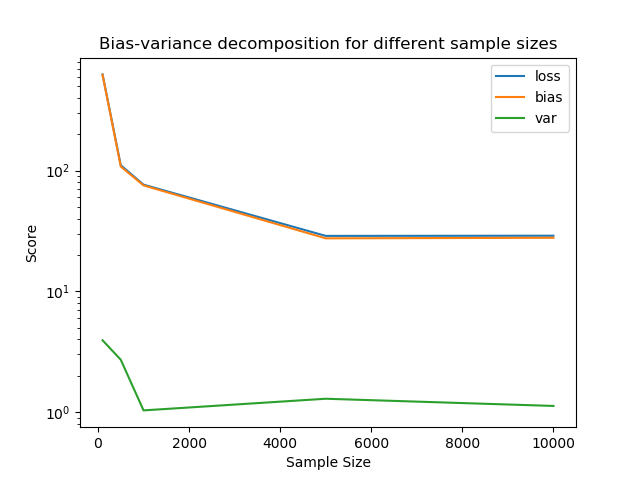
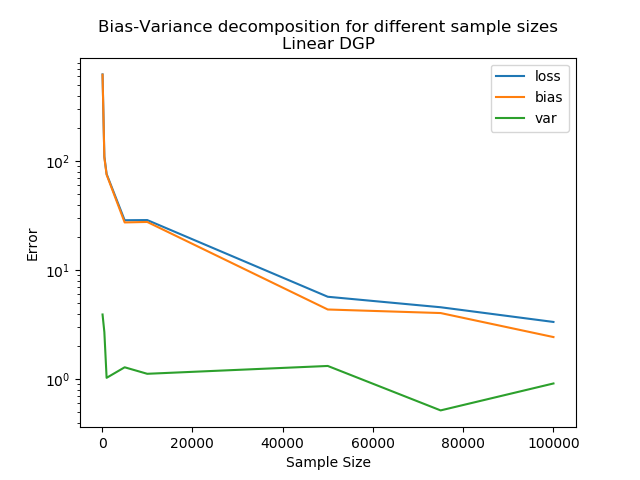
Added bias-variance decomposition for simulation.

diff --git a/chapters/appendix.tex b/chapters/appendix.tex
@@ -117,3 +117,30 @@ where $\mu_{D, \theta}$ is the average prediction of all ensembled trees and der
 & = \dfrac{\sigma_{D,\theta}^2(x)}{B} + \rho(x)\sigma_{D,\theta}^2(x) - \rho(x)\dfrac{\sigma_{D,\theta}^2(x)}{B}\notag \\
 & = \rho(x)\sigma_{D,\theta}^2(x) + \dfrac{1 - \rho(x)}{B}\sigma_{D,\theta}^2(x) \notag
 \end{align}
+\subsection{Bias-Variance Decomposition Figures}
+\begin{figure}[H]
+	\centering
+	\captionsetup{format=plain}
+	\makebox{\includegraphics[width=120mm]{bias_var_linearDGP.png}}
+	\caption{This figure demonstrates the decomposition of the expected generalization error in linear DGP. 
+			The expected generalization error is denoted with loss. 
+			As sample size increases both the expected generalization error and bias tend to decrease. 
+			Although the variance does not follow a pattern, in theory, we expect low variance and 
+			variance remains to be low for all sample sizes.}
+	\label{fig:bias_var_linear}
+\end{figure}
+
+\begin{figure}[H]
+	\centering
+	\captionsetup{format=plain}
+	\makebox{\includegraphics[width=120mm]{bias_var_nonlinearDGP.png}}
+	\caption{This figure demonstrates the decomposition of the expected generalization error in nonlinear DGP. 
+			The expected generalization error is denoted with loss. 
+			The expected generalization error is driven primarily 
+			by variance and bias remains to be low for all sample sizes. 
+			As expected, Random Forest decreases the variance and bias remains to be low due to low biasness of decision tree estimates.}
+	\label{fig:bias_var_nonlinear}
+\end{figure}
+
+
+

diff --git a/chapters/simulation_bias_var.tex b/chapters/simulation_bias_var.tex
@@ -1,0 +1,24 @@
+\subsubsection{Bias Variance Decomposition}
+For both simulation setups we decomposed the 
+expected generalization error of 
+Random Forest estimator. We included the figures for both 
+cases in Appendix. 
+Figure \ref{fig:bias_var_linear} is the decomposition in 
+linear setup and 
+figure \ref{fig:bias_var_nonlinear} is in non-linear setup. 
+In both figures the expected generalization error 
+is denoted as loss. 
+In the linear case, as sample size increases both 
+the expected generalization error and bias tend to decrease, 
+yet while being regularly low, the variance of 
+Random Forest estimator does not show any pattern. 
+Theoretically, we expect low variance and 
+the figure is in line with our expectations.
+On the other hand, the case with non-linear DGP emphasizes 
+more the power of decision trees embedded in Random Forest. 
+The expected generalization error is driven primarily 
+by variance and bias remains to be low for all sample sizes. 
+Since the decision trees yield low biased estimates and 
+the variance in the figure decreases with sample size, 
+figure is consistent with our expectations and in addition is
+a better showcase of Random Forest compared to linear DGP.

diff --git a/main.tex b/main.tex
@@ -59,7 +59,7 @@
 		\centering
 		University of Bonn
 		
-		 Master Programme in Economics
+		Master of Science in Economics
 		\vspace{1in}
 		\vspace{1in}
 		
@@ -84,12 +84,11 @@
 		
 	\end{titlepage}
 	
-
+	\include*{chapters/abstract}
+	\newpage	
 	\tableofcontents
 	\thispagestyle{empty}
 	\newpage
-
-	%\include{chapters/abstract}
 
 	\pagenumbering{arabic}
 
@@ -101,13 +100,15 @@
 
 	\include*{chapters/simulation}
 
+	\include*{chapters/simulation_bias_var}
+
 	\include*{chapters/comparison}
 
 %	\include*{chapters/conclusion}
 	% \newpage
 	\include*{chapters/appendix}
 
-	% \pagebreak
+	\pagebreak
 
 	\printbibliography
 
